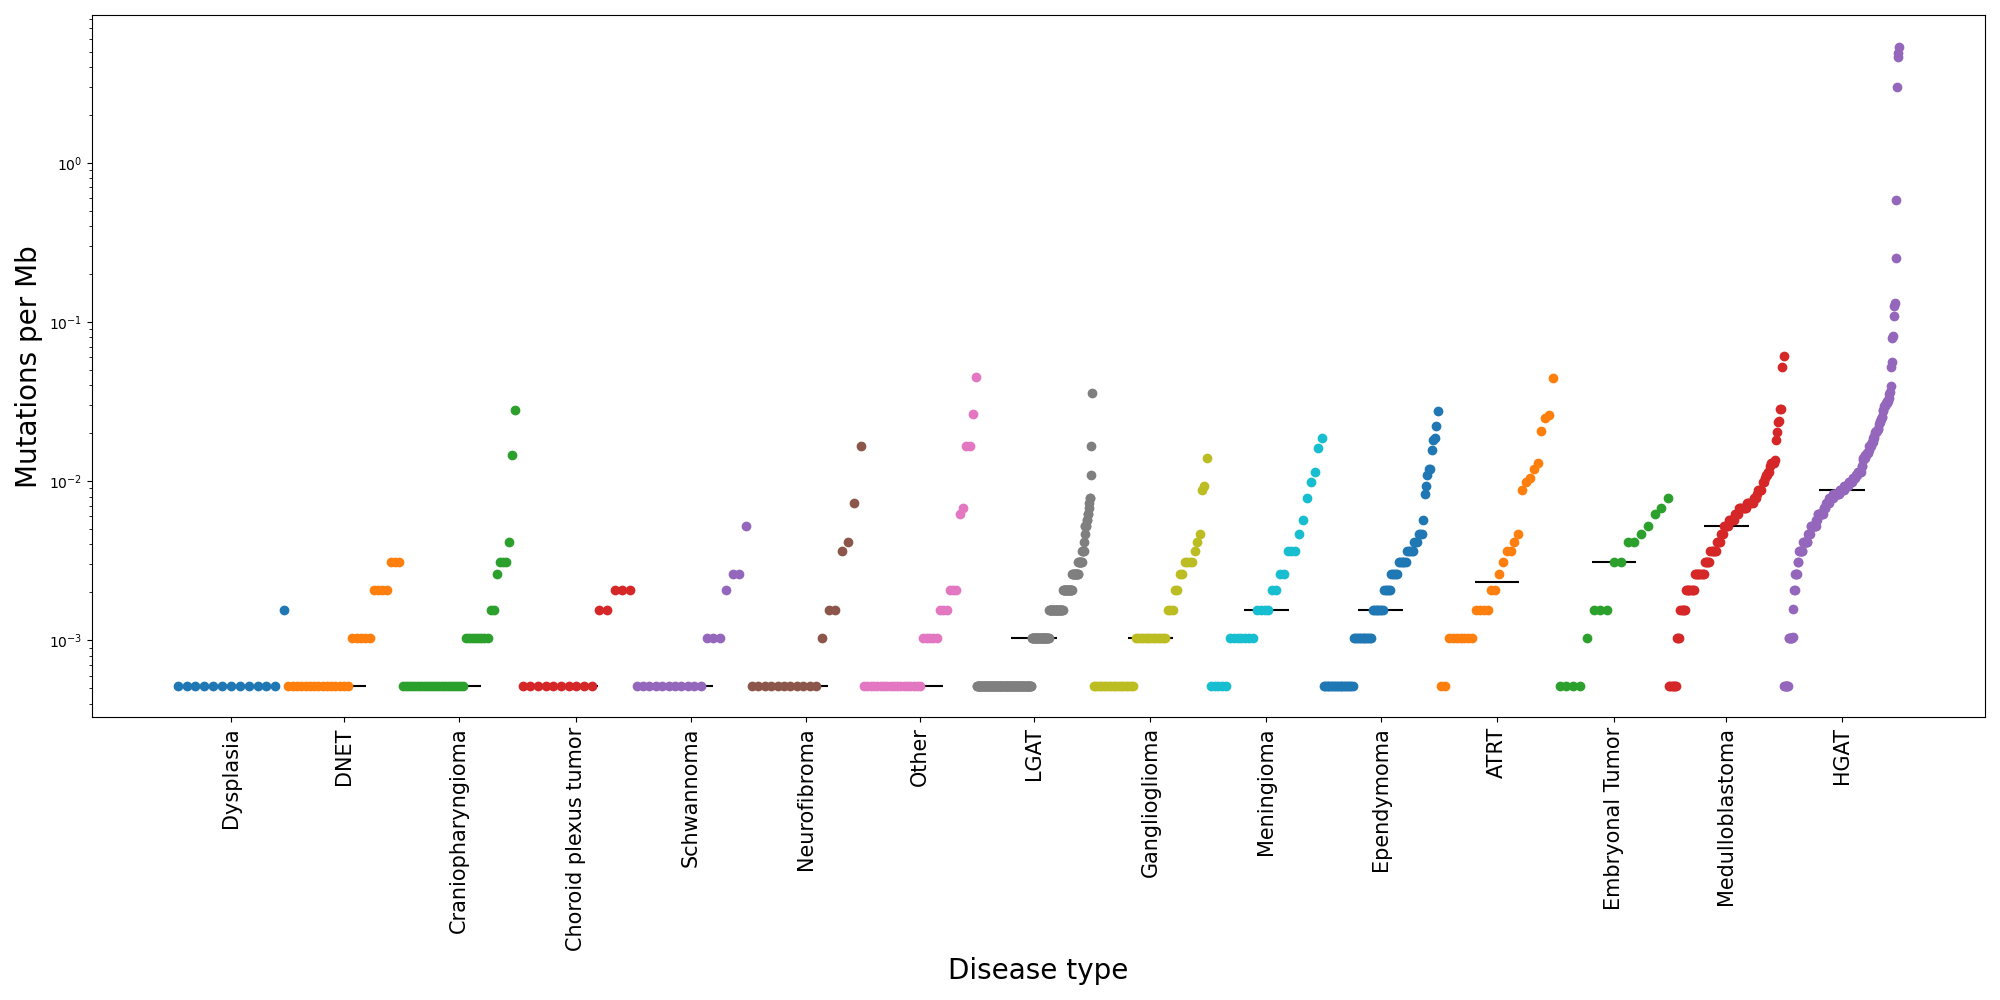
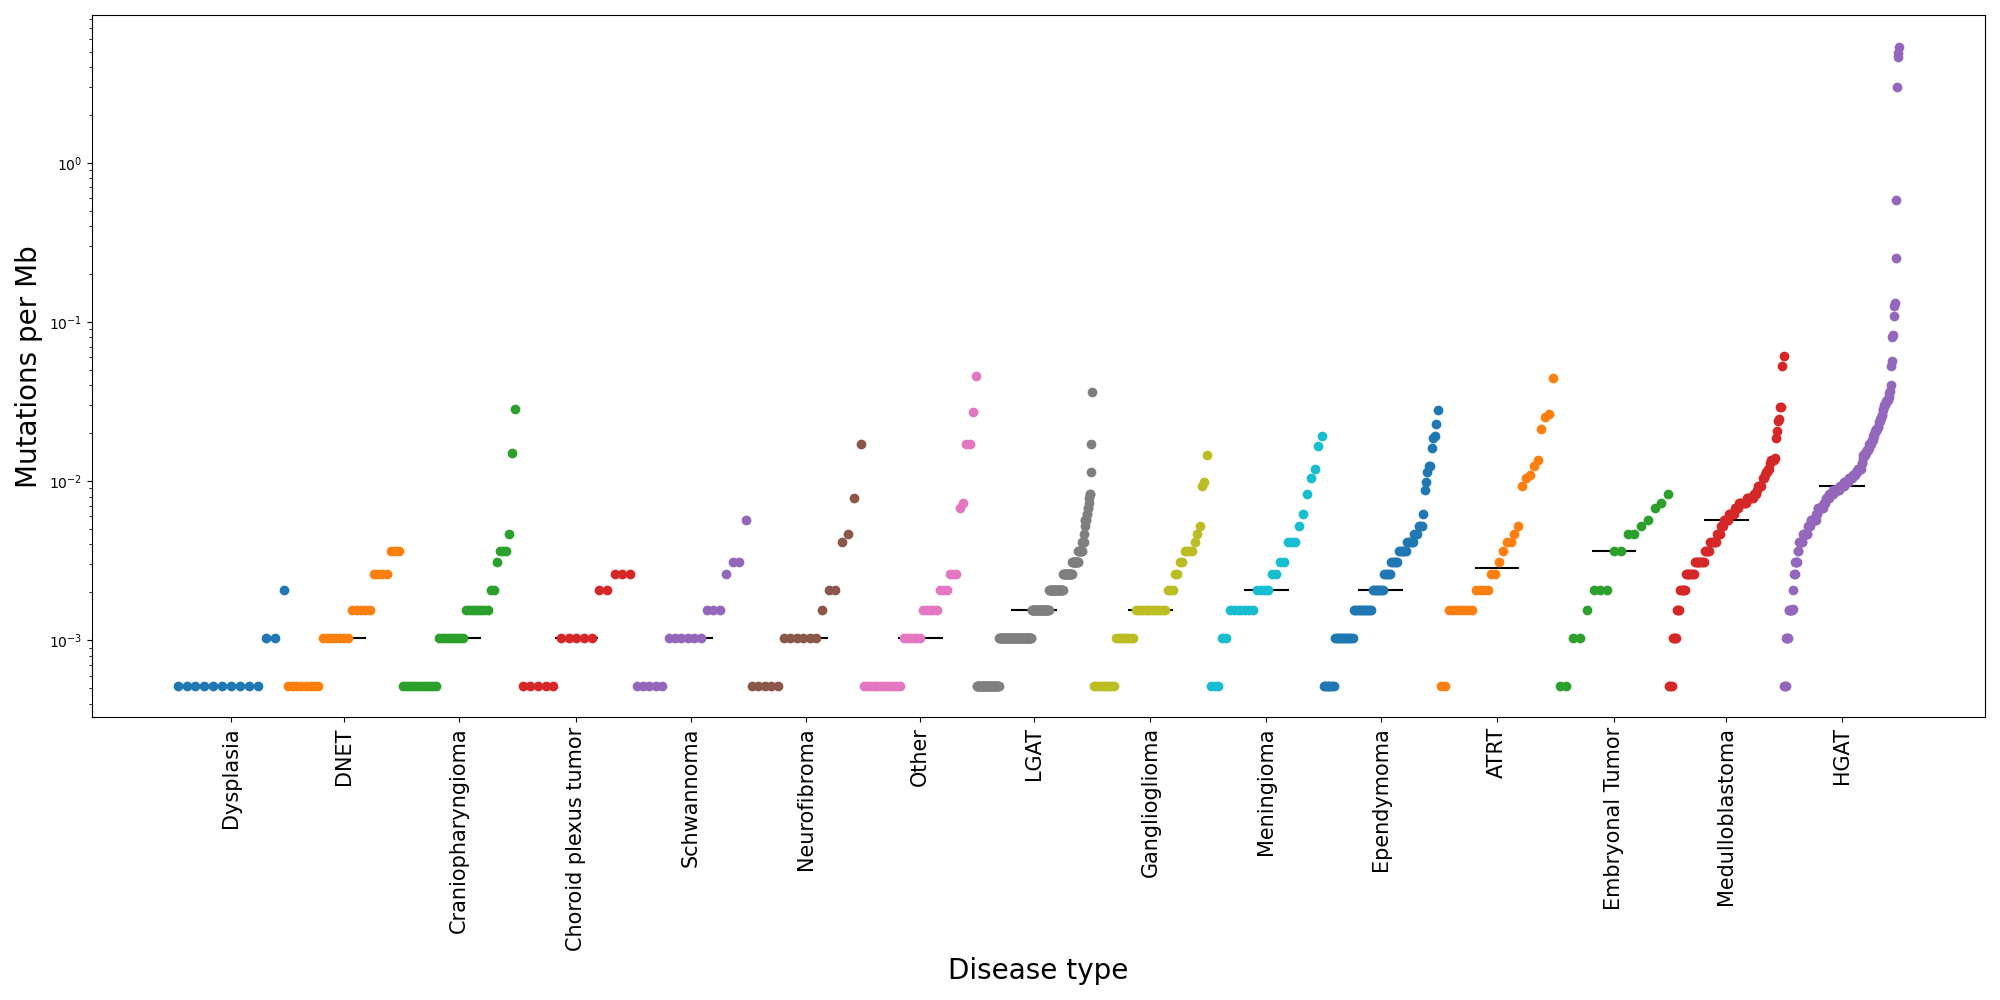
Adding 1 count to handle 0 value TMB's

diff --git a/analyses/tmb-compare-tcga/TMB_d3b_code/code/02_cumulative_freq_TMBplot.py b/analyses/tmb-compare-tcga/TMB_d3b_code/code/02_cumulative_freq_TMBplot.py
@@ -40,21 +40,12 @@ args = parser.parse_args()
 # Loading TMB scres text file into a  dataframe
 tmbfile = pd.read_csv(args.tmb_scores, sep="\t")
 
-# Choosing disease list to plot
-#tmbfile["new_TMB"] = ( tmbfile["count"] + 1 * 1000000) / tmbfile["bedlength"]
-#tmbfile["new_TMB"] = tmbfile["count"] + 1 / tmbfile["bedlength"]
-
 
 tmbfile["new_TMB"] = tmbfile.apply(lambda x:
-    (x["count"] + 1 * 1000000) / x["bedlength"] if x["count"]==0
-    else x["TMB"],axis=1)
-#( tmbfile["count"] + 1 * 1000000) / tmbfile["bedlength"]
-#value_to_add = np.min(tmbfile[tmbfile["TMB"] != 0]["TMB"])*0.8
-#tmbfile["new_TMB"] = tmbfile["TMB"].replace({0: value_to_add})
-#tmbfile = tmbfile.sort_values(by=['new_TMB'])
+    ((x["count"] + 1) * 1000000) / x["bedlength"],
+    axis=1)
 
-
-
+# Choosing diseses to plot
 # Counting number of lines under each disease and saving it as disease_number
 # If lines per disease is greater than minsamplestoplot, then add disease to top_diseases
 
